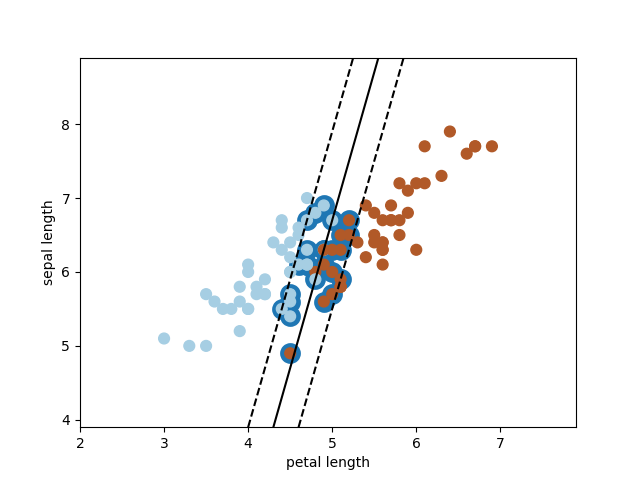
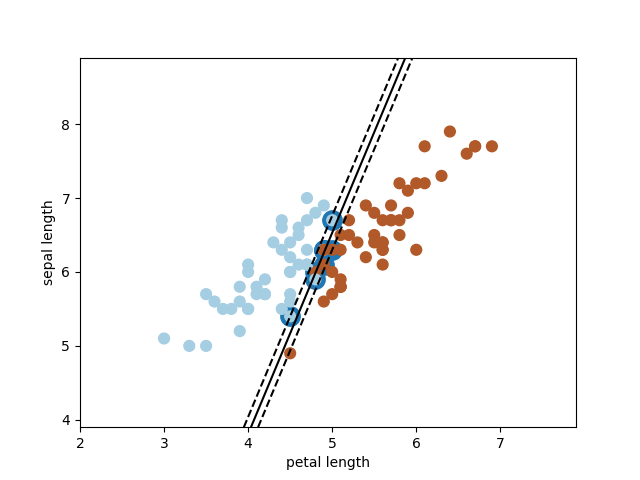
0321

Changed region(s): [[0.375, 0.125, 0.6562, 0.9062], [0.5, 0.2188, 0.5312, 0.25]]

diff --git a/0320_Quiz/q3/svm.py b/0320_Quiz/q3/svm.py
@@ -4,7 +4,7 @@ from sklearn.metrics import accuracy_score
 def train_model(x_mat, y_vec):
     
     # <ToDo>: scikit-learn을 활용해서 모델을 생성하고, x_mat, y_vec으로 모델을 학습시킵니다.
-    model = svm.SVC(kernel='linear')
+    model = svm.SVC(kernel='linear', C=80)
     trained_model = model.fit(x_mat, y_vec)
     
     return trained_model

diff --git a/0320_Quiz/q2.py b/0320_Quiz/q2.py
@@ -32,9 +32,9 @@ def load_data():
 """
 def SVM(train_X, test_X, train_y, test_y):
     
-    svm = SVC(kernel='linear')
-    svm.fit(train_X, train_y)
-    pred_y = svm.predict(test_X)
+    model = SVC()
+    model.fit(train_X, train_y)
+    pred_y = model.predict(test_X)
     
     return pred_y
 
